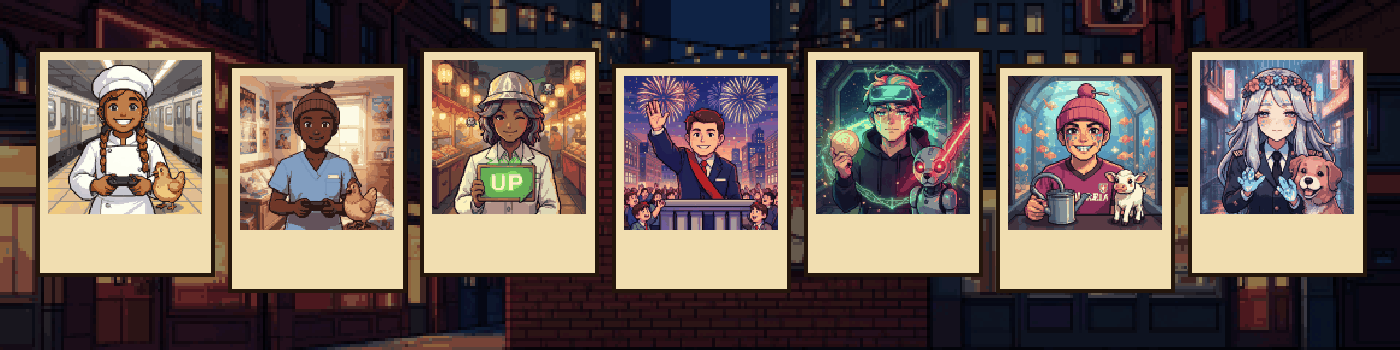
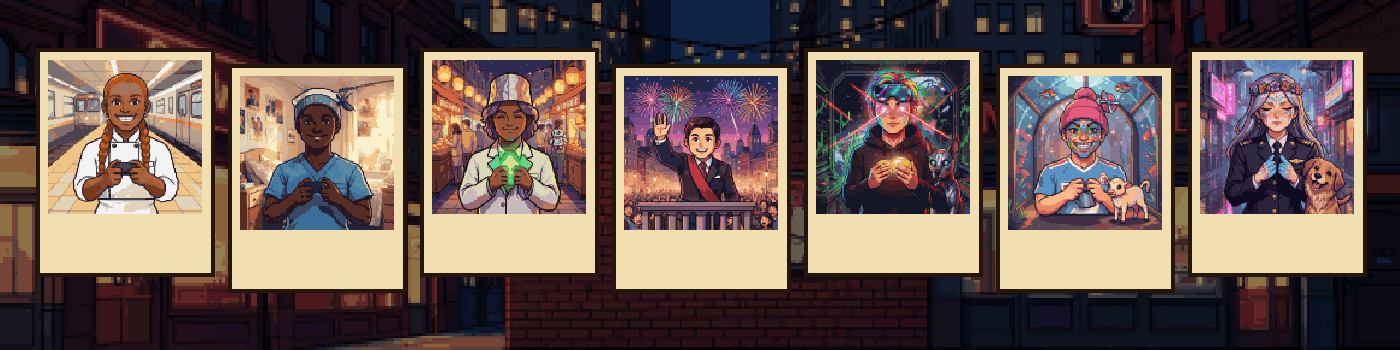
Pose template: every non-legendary token redrawn from one fixed pose; legendaries free-form; new examples

Changed region(s): [[0.0307, 0.1714, 0.9829, 0.6571]]

diff --git a/worker/src/workflow.ts b/worker/src/workflow.ts
@@ -1,6 +1,6 @@
 import { WorkflowEntrypoint, type WorkflowEvent, type WorkflowStep } from "cloudflare:workers";
 import { NonRetryableError } from "cloudflare:workflows";
-import { generateImage, loadManifest, randomSeed } from "./ai";
+import { generateImage, loadManifest, loadPoseTemplate, POSE_INSTRUCTION, randomSeed } from "./ai";
 import { encodeRgbPng, OUT_SCALE, pixelGrid, upscaleNearest } from "./pixel";
 
 const FLAGGED_SEED_TRIES = 5;
@@ -29,6 +29,7 @@ export class GenerateToken extends WorkflowEntrypoint<Env, GenerateParams> {
 				model: tier.model,
 				params: tier.params,
 				colors: tier.colors,
+				template: tier.template ?? false,
 				prompt: token.prompt,
 				// seeds are picked inside a step so a replay reuses the same one
 				seed: force ? randomSeed() : token.seed,
@@ -44,13 +45,17 @@ export class GenerateToken extends WorkflowEntrypoint<Env, GenerateParams> {
 				// the shared style prompt + pixelation keep the collection consistent on their own.
 				// The safety filter sometimes flags a harmless render (3030); a new seed usually passes,
 				// while retrying the same seed never would.
+				// templated tiers are redrawn from the fixed pose so the whole collection shares one framing
+				const ref = plan.template ? await loadPoseTemplate(this.env) : undefined;
+				if (plan.template && !ref) throw new NonRetryableError("pose template missing in R2 (template/pose.png)");
+				const prompt = ref ? POSE_INSTRUCTION + plan.prompt : plan.prompt;
 				const attempts = [
 					...Array.from({ length: FLAGGED_SEED_TRIES }, (_, n) => ({ model: plan.model, seed: plan.seed + n })),
 					...(plan.model === FALLBACK_MODEL ? [] : [{ model: FALLBACK_MODEL, seed: plan.seed }]),
 				];
 				for (const { model, seed } of attempts) {
 					try {
-						const bytes = await generateImage(this.env, model, plan.prompt, plan.params, seed);
+						const bytes = await generateImage(this.env, model, prompt, plan.params, seed, ref);
 						await this.env.ART.put(`raw/${id}`, bytes, { customMetadata: { seed: String(seed), model } });
 						return seed;
 					} catch (err) {

diff --git a/worker/src/ai.ts b/worker/src/ai.ts
@@ -2,6 +2,8 @@ export interface TierConfig {
 	model: string;
 	params: Record<string, string | number>;
 	colors: number;
+	/** redraw from the pose template (false for free-form 1/1s) */
+	template?: boolean;
 }
 
 export interface Token {
@@ -17,6 +19,18 @@ export interface Token {
 export interface Manifest {
 	tiers: Record<string, TierConfig>;
 	tokens: Token[];
+}
+
+/** Fixed pose template every templated tier is redrawn from (same pose, head size, framing). */
+export const POSE_TEMPLATE_KEY = "template/pose.png";
+export const POSE_INSTRUCTION =
+	"Redraw the gray mannequin in image 0 as the character described below. Keep exactly the same pose, " +
+	"body size, head size, head position, hand position and framing as image 0; the hands hold the item named " +
+	"below. Change only the character, clothing, props and background. Character: ";
+
+export async function loadPoseTemplate(env: Env): Promise<Uint8Array | undefined> {
+	const obj = await env.ART.get(POSE_TEMPLATE_KEY);
+	return obj ? new Uint8Array(await obj.arrayBuffer()) : undefined;
 }
 
 export async function loadManifest(env: Env): Promise<Manifest> {
@@ -40,6 +54,7 @@ export async function generateImage(
 	prompt: string,
 	params: Record<string, string | number>,
 	seed: number,
+	ref?: Uint8Array,
 ): Promise<Uint8Array> {
 	if (!model.startsWith("@cf/")) {
 		const out = (await env.AI.run(model as Parameters<Ai["run"]>[0], { prompt, seed, ...params } as never)) as unknown;
@@ -50,6 +65,7 @@ export async function generateImage(
 	form.append("prompt", prompt);
 	form.append("seed", String(seed));
 	for (const [key, value] of Object.entries(params)) form.append(key, String(value));
+	if (ref) form.append("input_image_0", new Blob([ref], { type: "image/png" }), "template.png");
 
 	// Response serializes the FormData and gives us the boundary content-type
 	const body = new Response(form);

diff --git a/worker/src/index.ts b/worker/src/index.ts
@@ -1,4 +1,4 @@
-import { generateImage, loadManifest, randomSeed, type Token } from "./ai";
+import { generateImage, loadManifest, loadPoseTemplate, POSE_INSTRUCTION, randomSeed, type Token } from "./ai";
 import { galleryPage } from "./gallery";
 
 export { GenerateToken } from "./workflow";
@@ -51,7 +51,13 @@ async function admin(request: Request, env: Env, url: URL): Promise<Response> {
 		const model = url.searchParams.get("model") ?? "@cf/black-forest-labs/flux-2-klein-9b";
 		const width = Number(url.searchParams.get("w") ?? 1024);
 		const height = Number(url.searchParams.get("h") ?? 1024);
-		const bytes = await generateImage(env, model, await request.text(), { width, height }, randomSeed());
+		// ?template=1 redraws the pose template (the way templated tiers are generated)
+		const useTemplate = url.searchParams.get("template") === "1";
+		const ref = useTemplate ? await loadPoseTemplate(env) : undefined;
+		if (useTemplate && !ref) return Response.json({ error: "no pose template in R2" }, { status: 400 });
+		const text = await request.text();
+		const prompt = ref ? POSE_INSTRUCTION + text : text;
+		const bytes = await generateImage(env, model, prompt, { width, height }, randomSeed(), ref);
 		const key = `marketing/${Date.now()}`;
 		await env.ART.put(key, bytes);
 		return new Response(bytes, { headers: { "content-type": "image/png", "x-art-key": key } });

diff --git a/pipeline/wayfarers.py b/pipeline/wayfarers.py
@@ -124,7 +124,8 @@ def cmd_roll(args):
         })
 
     manifest = {
-        "tiers": {name: {"model": t["model"], "params": t.get("params", {}), "colors": t["colors"]}
+        "tiers": {name: {"model": t["model"], "params": t.get("params", {}), "colors": t["colors"],
+                         "template": t.get("template", False)}
                   for name, t in cfg["tiers"].items()},
         "tokens": tokens,
     }

diff --git a/README.md b/README.md
@@ -25,7 +25,7 @@ per image, over the free plan's 10ms limit.
 
 ## Layout
 
-- `config/` traits, tiers, legendaries (edit these)
+- `config/` traits, tiers, legendaries (edit these); `pose-template.png` is the fixed pose every non-legendary token is redrawn from (upload it to R2 as `template/pose.png`)
 - `pipeline/wayfarers.py` local: `roll`, `stats`, `pull`, `provenance`, `metadata`
 - `worker/` Cloudflare Worker: serves the marketing + mint site (`worker/public/`), and
   at `/admin` runs Workers AI generation, pixelation, R2 storage, Workflows batch jobs
